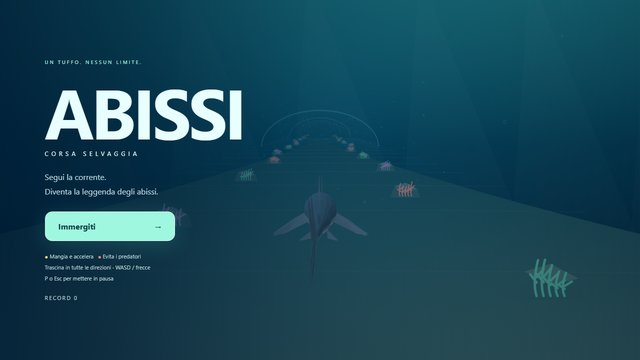
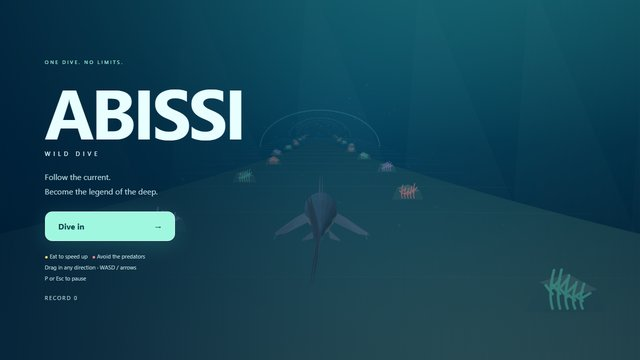
Translate Abissi to English

diff --git a/abissi/index.html b/abissi/index.html
@@ -1,12 +1,12 @@
 <!DOCTYPE html>
-<html lang="it"><head><meta charset="utf-8"><meta name="viewport" content="width=device-width,initial-scale=1,viewport-fit=cover"><title>ABISSI — Corsa selvaggia</title>
+<html lang="en"><head><meta charset="utf-8"><meta name="viewport" content="width=device-width,initial-scale=1,viewport-fit=cover"><title>ABISSI — Wild Dive</title>
 <style>
 *{box-sizing:border-box}html,body{margin:0;width:100%;height:100%;overflow:hidden;background:#05273b;color:#e9ffff;font-family:system-ui,sans-serif}canvas{width:100%;height:100%;display:block;touch-action:none}button{cursor:pointer;font:inherit;color:inherit}#hud{position:absolute;inset:0 0 auto;padding:max(14px,env(safe-area-inset-top)) 14px;display:flex;gap:8px;align-items:center;pointer-events:none}.pill,.icon{background:#032939a8;border:1px solid #b9fff32b;border-radius:14px;backdrop-filter:blur(14px)}.pill{padding:10px 14px;min-width:75px}.pill small{display:block;color:#9bc8cc;font-size:8px;letter-spacing:2px}.pill b{font-size:20px;font-variant-numeric:tabular-nums}.icon{pointer-events:auto;width:44px;height:44px;font-size:19px}.health{flex:1;max-width:160px;margin-left:auto}.bar{background:#ffffff20;border-radius:10px;height:5px;margin-top:7px;overflow:hidden}.bar i{display:block;height:100%;background:#89f4d8;transition:width .15s}.overlay{position:absolute;inset:0;display:flex;align-items:center;padding:7vw;background:linear-gradient(90deg,#001e36c9,transparent);overflow:auto}.hidden{display:none!important}.panel{max-width:480px}.eyebrow{font-size:10px;letter-spacing:3px;color:#9bf3df}h1{font-size:clamp(72px,12vw,140px);letter-spacing:-6px;line-height:1;margin:20px 0 8px}h2{font-size:42px;letter-spacing:-2px;margin:20px 0}.subtitle{letter-spacing:6px;font-size:12px}.intro{line-height:1.8;color:#b9dce1;margin:25px 0}.primary{background:#a0f7df;color:#073e48;border:1px solid #dbfff3;border-radius:14px;padding:18px 26px;width:260px;max-width:100%;font-weight:750;display:flex;justify-content:space-between;box-shadow:0 8px 45px #63efd52a}.secondary{background:transparent;border:0;padding:16px;color:#b9dce1}.legend{font-size:11px;line-height:2;color:#b5d2d8;margin-top:20px}.gold{color:#f9d37e}.record{font-size:11px;letter-spacing:2px;margin-top:20px;color:#b1d4d7}#hint{position:absolute;bottom:max(22px,env(safe-area-inset-bottom));width:100%;text-align:center;pointer-events:none;font-size:10px;letter-spacing:2px;color:#c1e5e7}#combo{position:absolute;top:110px;width:100%;text-align:center;color:#ffe29a;pointer-events:none;font-weight:bold;letter-spacing:2px}#stick{position:absolute;width:72px;height:72px;border-radius:50%;border:1px solid #c7fff855;background:#03405430;pointer-events:none;transform:translate(-50%,-50%)}#stick i{display:block;width:24px;height:24px;border-radius:50%;background:#c4fff766;position:absolute;left:23px;top:23px}
 @media(max-width:600px){#hud{flex-wrap:wrap;gap:6px}.pill{padding:9px 10px;min-width:63px}.pill b{font-size:17px}.health{max-width:none;min-width:60px}.icon{width:38px;height:38px}.overlay{padding:25px;align-items:flex-start;padding-top:13vh}.panel{max-width:100%}h1{font-size:80px}.intro{font-size:14px}.legend{font-size:10px}#combo{top:100px;font-size:12px}}@media(max-height:520px){.overlay{padding:20px 6vw;align-items:center}h1{font-size:64px;margin:8px 0}.intro{margin:12px 0;font-size:12px}.legend{margin-top:10px}.record{margin-top:10px}.primary{padding:13px 20px}h2{margin:10px 0}}
 </style></head><body>
-<canvas id="world" tabindex="0" aria-label="Gioco subacqueo: usa frecce, WASD o trascina per guidare lo squalo"></canvas>
-<div id="hud" class="hidden"><div class="pill"><small>DISTANZA</small><b id="distance">0 m</b></div><div class="pill"><small>PUNTI</small><b id="score">0</b></div><div class="pill"><small>VELOCITÀ</small><b id="speed">1.0 ×</b></div><div class="pill health"><small>VITA <span id="hp">100</span></small><div class="bar"><i id="life"></i></div></div><button class="icon" id="audio" aria-label="Attiva audio">♪</button><button class="icon" id="pause" aria-label="Pausa">Ⅱ</button></div>
-<div id="menu" class="overlay"><div class="panel"><div class="eyebrow" id="eyebrow">UN TUFFO. NESSUN LIMITE.</div><h1 id="title">ABISSI</h1><div class="subtitle" id="subtitle">CORSA SELVAGGIA</div><p class="intro" id="intro">Segui la corrente.<br>Diventa la leggenda degli abissi.</p><button class="primary" id="play">Immergiti <span>→</span></button><button class="secondary hidden" id="restart">Ricomincia</button><div class="legend"><span class="gold">●</span> Mangia e accelera &nbsp; <span style="color:#fb879a">●</span> Evita i predatori<br>Trascina in tutte le direzioni · WASD / frecce<br>P o Esc per mettere in pausa</div><div class="record" id="record">RECORD 0</div></div></div><div id="hint" class="hidden">TRASCINA PER NUOTARE</div><div id="combo"></div><div id="stick" class="hidden"><i></i></div>
+<canvas id="world" tabindex="0" aria-label="Underwater game: use the arrows, WASD or drag to steer the shark"></canvas>
+<div id="hud" class="hidden"><div class="pill"><small>DISTANCE</small><b id="distance">0 m</b></div><div class="pill"><small>SCORE</small><b id="score">0</b></div><div class="pill"><small>SPEED</small><b id="speed">1.0 ×</b></div><div class="pill health"><small>HEALTH <span id="hp">100</span></small><div class="bar"><i id="life"></i></div></div><button class="icon" id="audio" aria-label="Turn sound on">♪</button><button class="icon" id="pause" aria-label="Pause">Ⅱ</button></div>
+<div id="menu" class="overlay"><div class="panel"><div class="eyebrow" id="eyebrow">ONE DIVE. NO LIMITS.</div><h1 id="title">ABISSI</h1><div class="subtitle" id="subtitle">WILD DIVE</div><p class="intro" id="intro">Follow the current.<br>Become the legend of the deep.</p><button class="primary" id="play">Dive in <span>→</span></button><button class="secondary hidden" id="restart">Restart</button><div class="legend"><span class="gold">●</span> Eat to speed up &nbsp; <span style="color:#fb879a">●</span> Avoid the predators<br>Drag in any direction · WASD / arrows<br>P or Esc to pause</div><div class="record" id="record">RECORD 0</div></div></div><div id="hint" class="hidden">DRAG TO SWIM</div><div id="combo"></div><div id="stick" class="hidden"><i></i></div>
 <script>
 (()=>{'use strict';
 const $=id=>document.getElementById(id),canvas=$('world'),ctx=canvas.getContext('2d'),TAU=Math.PI*2,clamp=(v,a,b)=>Math.max(a,Math.min(b,v)),mod=(v,n)=>(v%n+n)%n;
@@ -40,7 +40,7 @@ function splash(x,y,color,text){for(let i=0;i<18&&g.particles.length<130;i++){le
 function start(){g={...fresh(),mode:'running'};keys={};drag=null;$('stick').classList.add('hidden');unlock();ui();canvas.focus()}
 function pause(){if(g.mode==='running')g.mode='paused';else if(g.mode==='paused')g.mode='running';keys={};drag=null;$('stick').classList.add('hidden');ui()}
 function end(){g.mode='gameover';record=Math.max(record,Math.floor(g.score));try{localStorage.setItem('abissi-record',record)}catch{}ui()}
-function ui(){const running=g.mode==='running';$('hud').classList.toggle('hidden',!running);$('menu').classList.toggle('hidden',running);$('hint').classList.toggle('hidden',!running||!hint);$('distance').textContent=Math.floor(g.distance)+' m';$('score').textContent=Math.floor(g.score).toLocaleString('it-IT');$('speed').textContent=(g.speed/18).toFixed(1)+' ×';$('hp').textContent=g.hp;$('life').style.width=g.hp+'%';$('life').style.background=g.hp<30?'#fb879a':'#89f4d8';$('combo').textContent=running&&g.combo>1?'CATENA OCEANICA ×'+g.combo:'';$('record').textContent='RECORD '+record.toLocaleString('it-IT');if(g.mode==='paused'){$('title').textContent='Pausa';$('subtitle').textContent='PRENDI FIATO';$('intro').textContent="L'oceano può aspettare.";$('play').innerHTML='Riprendi <span>→</span>'}else if(g.mode==='gameover'){$('title').textContent='Riprova';$('subtitle').textContent='IL MARE TI ASPETTA';$('intro').textContent=Math.floor(g.score)+' punti · '+Math.floor(g.distance)+' metri';$('play').innerHTML='Immergiti ancora <span>→</span>'}$('restart').classList.toggle('hidden',g.mode!=='paused')}
+function ui(){const running=g.mode==='running';$('hud').classList.toggle('hidden',!running);$('menu').classList.toggle('hidden',running);$('hint').classList.toggle('hidden',!running||!hint);$('distance').textContent=Math.floor(g.distance)+' m';$('score').textContent=Math.floor(g.score).toLocaleString('en-US');$('speed').textContent=(g.speed/18).toFixed(1)+' ×';$('hp').textContent=g.hp;$('life').style.width=g.hp+'%';$('life').style.background=g.hp<30?'#fb879a':'#89f4d8';$('combo').textContent=running&&g.combo>1?'OCEAN CHAIN ×'+g.combo:'';$('record').textContent='RECORD '+record.toLocaleString('en-US');if(g.mode==='paused'){$('title').textContent='Paused';$('subtitle').textContent='CATCH YOUR BREATH';$('intro').textContent="The ocean can wait.";$('play').innerHTML='Resume <span>→</span>'}else if(g.mode==='gameover'){$('title').textContent='Try again';$('subtitle').textContent='THE SEA IS WAITING';$('intro').textContent=Math.floor(g.score)+' points · '+Math.floor(g.distance)+' metres';$('play').innerHTML='Dive again <span>→</span>'}$('restart').classList.toggle('hidden',g.mode!=='paused')}
 let hint=true;
 function update(dt){g.time+=dt;g.tail=mod(g.tail+dt*(5.2+g.speed*.18),TAU);if(g.mode==='start'){g.distance+=dt*7;g.x=Math.sin(g.time*.4)*.2;g.roll=Math.sin(g.time*.4)*.06}else{const ox=g.x,oy=g.y;let dx=(keys.ArrowRight||keys.d?1:0)-(keys.ArrowLeft||keys.a?1:0),dy=(keys.ArrowDown||keys.s?1:0)-(keys.ArrowUp||keys.w?1:0),n=Math.hypot(dx,dy)||1;g.tx=clamp(g.tx+dx/n*dt*5,-bounds.x,bounds.x);g.ty=clamp(g.ty+dy/n*dt*4,-bounds.y,bounds.y);let e=1-Math.exp(-12*dt);g.x+=(g.tx-g.x)*e;g.y+=(g.ty-g.y)*e;g.roll+=((g.tx-g.x)*.25-g.roll)*e;g.pitch+=(clamp(-(g.ty-g.y)*.14,-.14,.14)-g.pitch)*e;g.boost=Math.max(0,g.boost-dt*.1);g.slow=Math.max(0,g.slow-dt);g.inv=Math.max(0,g.inv-dt);g.flash=Math.max(0,g.flash-dt*2);g.comboTime-=dt;if(g.comboTime<=0)g.combo=0;g.speed+=((g.slow>0?9:18+Math.min(7,g.distance/450)+g.boost*16)-g.speed)*(1-Math.exp(-5*dt));const step=g.speed*dt;g.distance+=step;g.score+=step*.5;g.spawn-=step;
 if(g.spawn<=0){g.spawn=28;const bx=bounds.x*.8,by=bounds.y*.8,x=(Math.random()*2-1)*bx,y=(Math.random()*2-1)*by;for(let i=0;i<6;i++)g.objects.push({type:'fish',x:clamp(x+Math.sin(i*.55)*.5,-bx,bx),y:clamp(y+Math.cos(i*.6)*.22,-by,by),z:85+i*2,r:.23});let ex=x>0?-bx:bx;g.objects.push({type:Math.random()<.4?'orca':'enemy',x:ex,y:(Math.random()*2-1)*by,z:92,r:.74});if(g.distance>650)g.objects.push({type:'enemy',x:ex,y:y>0?-by:by,z:111,r:.7})}
@@ -57,7 +57,7 @@ else{let orca=o.type==='orca';ctx.scale(orca?1.15:1,orca?1.15:1);let dark=orca?'
 function render(){ctx.setTransform(DPR,0,0,DPR,0,0);ctx.fillStyle=bg;ctx.fillRect(0,0,W,H);ctx.save();if(g.flash&&g.mode==='running')ctx.translate(Math.sin(g.time*70)*g.flash*3,Math.cos(g.time*62)*g.flash*2);for(let i=0;i<6;i++){let x=W*(.08+i*.19)+Math.sin(g.time*.16+i)*25;poly([[x,0],[x+25,0],[x+W*.25,H],[x-W*.04,H]],'#b9fff608')}ctx.fillStyle=sand;ctx.beginPath();ctx.moveTo(0,H);ctx.lineTo(0,H*.65);ctx.quadraticCurveTo(W*.3,H*.52,W/2,H*.39);ctx.quadraticCurveTo(W*.7,H*.52,W,H*.65);ctx.lineTo(W,H);ctx.fill();for(let i=0;i<16;i++){let z=3+mod(i*7-g.distance*.65,112),a=project(-15,3,z),b=project(15,3,z);ctx.strokeStyle='#a4f1dd13';ctx.lineWidth=1;ctx.beginPath();ctx.moveTo(a.x,a.y);ctx.quadraticCurveTo(W/2,a.y-10*a.s/40,b.x,b.y);ctx.stroke()}drawCurrents();const objects=[...g.objects,{type:'player',z:6},{type:'wake',z:4}];for(let i=0;i<24;i++)objects.push({type:'reef',x:(i%2?1:-1)*(bounds.x+1.3+i%3*.65),y:3,z:3+mod(i*6-g.distance,144),seed:i});for(let i=0;i<5;i++)objects.push({type:'arch',x:0,y:0,z:3+mod(i*27-g.distance,135)});objects.sort((a,b)=>b.z-a.z);for(const o of objects){if(o.type==='player')shark();else if(o.type==='wake')wake();else sprite(o)}
 for(const b of bubbles){const p=project(b.x,b.y,b.z);if(!p)continue;ctx.strokeStyle='#b7fff54a';ctx.lineWidth=.7;ctx.beginPath();ctx.arc(p.x,p.y,Math.max(.5,b.r*p.s),0,TAU);ctx.stroke()}for(const b of g.particles){const p=project(b.x,b.y,b.z);if(p){ctx.globalAlpha=b.life/.7;ell(p.x,p.y,p.s*.022,p.s*.022,b.color)}}ctx.globalAlpha=1;ctx.font='700 16px system-ui';ctx.textAlign='center';for(const b of g.popups){const p=project(b.x,b.y-.7-(1-b.life),b.z);if(p){ctx.globalAlpha=b.life;ctx.fillStyle=b.color;ctx.fillText(b.text,p.x,p.y)}}ctx.globalAlpha=1;ctx.restore();ctx.fillStyle=vignette;ctx.fillRect(0,0,W,H);if(g.flash){ctx.fillStyle='rgba(251,113,133,'+g.flash*.17+')';ctx.fillRect(0,0,W,H)}}
 function loop(t){const raw=last?t-last:16;last=t;avg=avg*.98+raw*.02;if(avg>25)quality=0;else if(avg<18)quality=1;const dt=Math.min(.033,raw/1000);if(g.mode==='running'||g.mode==='start')update(dt);render();uiClock+=dt;if(uiClock>.1){uiClock=0;ui()}requestAnimationFrame(loop)}
-$('play').onclick=()=>g.mode==='paused'?pause():start();$('restart').onclick=start;$('pause').onclick=pause;$('audio').onclick=()=>{unlock();muted=!muted;$('audio').textContent=muted?'♪':'♫';$('audio').setAttribute('aria-label',muted?'Attiva audio':'Disattiva audio');if(!muted)sound('fish')};
+$('play').onclick=()=>g.mode==='paused'?pause():start();$('restart').onclick=start;$('pause').onclick=pause;$('audio').onclick=()=>{unlock();muted=!muted;$('audio').textContent=muted?'♪':'♫';$('audio').setAttribute('aria-label',muted?'Turn sound on':'Turn sound off');if(!muted)sound('fish')};
 window.addEventListener('keydown',e=>{if(e.target.tagName==='BUTTON'&&(e.key==='Enter'||e.key===' '))return;let k=e.key.length===1?e.key.toLowerCase():e.key;if(['ArrowUp','ArrowDown','ArrowLeft','ArrowRight','w','a','s','d','p','Escape'].includes(k))e.preventDefault();if((k==='p'||k==='Escape')&&!e.repeat)pause();else keys[k]=true});window.addEventListener('keyup',e=>{keys[e.key.length===1?e.key.toLowerCase():e.key]=false});
 canvas.addEventListener('pointerdown',e=>{if(g.mode!=='running'||drag)return;canvas.setPointerCapture(e.pointerId);drag={id:e.pointerId,x:e.clientX,y:e.clientY,sx:e.clientX,sy:e.clientY};hint=false;$('stick').classList.remove('hidden');$('stick').style.left=e.clientX+'px';$('stick').style.top=e.clientY+'px';$('stick').firstElementChild.style.transform='translate(0,0)'});canvas.addEventListener('pointermove',e=>{if(!drag||drag.id!==e.pointerId)return;const ratio=6/F*1.15;g.tx=clamp(g.tx+(e.clientX-drag.x)*ratio,-bounds.x,bounds.x);g.ty=clamp(g.ty+(e.clientY-drag.y)*ratio,-bounds.y,bounds.y);drag.x=e.clientX;drag.y=e.clientY;$('stick').firstElementChild.style.transform='translate('+clamp(e.clientX-drag.sx,-24,24)+'px,'+clamp(e.clientY-drag.sy,-24,24)+'px)'});
 function release(e){if(drag?.id!==e.pointerId)return;drag=null;$('stick').classList.add('hidden');if(canvas.hasPointerCapture(e.pointerId))canvas.releasePointerCapture(e.pointerId)}for(const event of ['pointerup','pointercancel','lostpointercapture'])canvas.addEventListener(event,release);function blur(){keys={};drag=null;$('stick').classList.add('hidden');if(g.mode==='running'){g.mode='paused';ui()}}window.addEventListener('blur',blur);document.addEventListener('visibilitychange',()=>{if(document.hidden)blur();last=0});window.addEventListener('resize',resize);canvas.addEventListener('contextmenu',e=>e.preventDefault());resize();ui();requestAnimationFrame(loop);

diff --git a/README.md b/README.md
@@ -17,9 +17,9 @@ Racing, fighting, strategy, parkour, medieval battles and adventure, 1–2 playe
 | Skyflip | First-person rooftop parkour | 1 | [`skyflip/`](skyflip/) |
 | Shield Brothers | First-person shield wall battles | 1 | [`shield-brothers/`](shield-brothers/) |
 | Pop Gallery | First-person shooting gallery for kids | 1–2 (take turns) | [`pop-gallery/`](pop-gallery/) |
-| Abissi | Endless deep-sea swim (Italian UI) | 1 | [`abissi/`](abissi/) |
+| Abissi | Endless deep-sea swim | 1 | [`abissi/`](abissi/) |
 
-All games are in English, except Abissi (Italian).
+All games are in English.
 
 ## Run locally
 Open `index.html` in a browser, or serve the folder: `python -m http.server 8000` → http://localhost:8000
